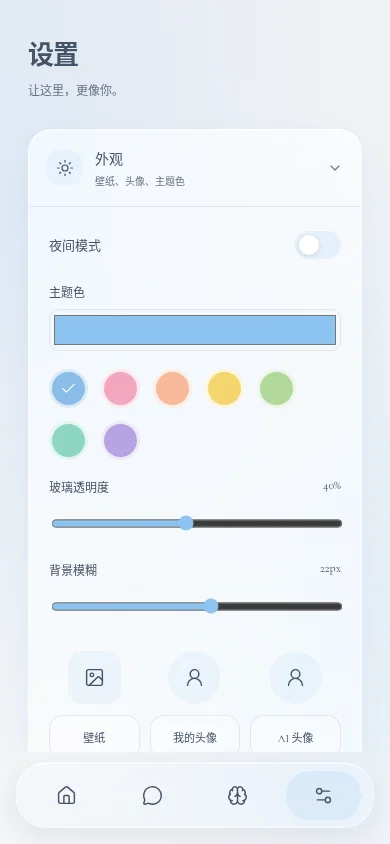
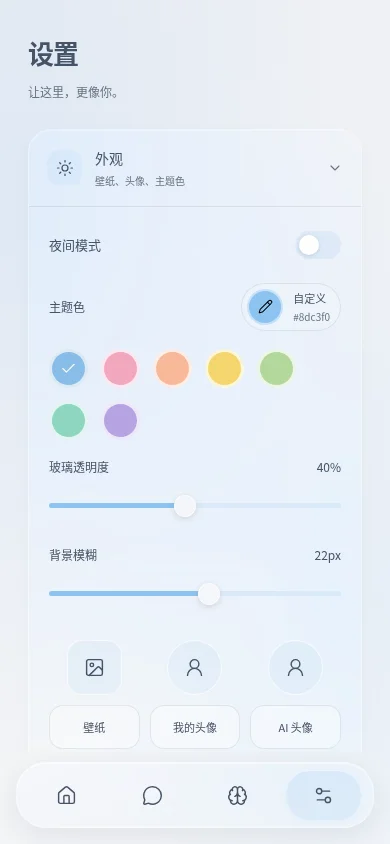
Use exact theme colors and polish glass bubbles and settings controls

diff --git a/src/style.css b/src/style.css
@@ -1,4 +1,4 @@
-:root{--font-en:"Cormorant Garamond",Georgia,serif;--theme-text:color-mix(in srgb,var(--accent) 42%,#202a38);--bubble-bg:rgb(255 255 255 / .2);--bubble-rim:rgb(255 255 255 / .5);--accent:#7a879a;--tint:122 135 154;--ink:color-mix(in srgb,var(--accent) 18%,#353b48);--muted:color-mix(in srgb,var(--accent) 10%,#626a76);--bg:#eceef3;--glass-tint:255 255 255;--glass-alpha:.6;--glass-blur:22px;--line:rgb(255 255 255 / .72);--hairline:rgb(83 94 114 / .12);--glass-shadow:0 8px 24px rgb(64 73 95 / .055),inset 0 1px 0 rgb(255 255 255 / .8),inset 0 -1px 0 rgb(255 255 255 / .23);--solid:#f4f5f8;--wall-image:none;font-family:"Cormorant Garamond",-apple-system,BlinkMacSystemFont,"Segoe UI","PingFang SC","Microsoft YaHei",sans-serif;color:var(--ink);background:var(--bg);font-synthesis:none}
+:root{--font-ui:-apple-system,BlinkMacSystemFont,"Segoe UI","PingFang SC","Microsoft YaHei",sans-serif;--font-en:"Cormorant Garamond",var(--font-ui);--theme-text:var(--accent);--bubble-bg:rgb(255 255 255 / .2);--bubble-rim:rgb(255 255 255 / .5);--accent:#7a879a;--tint:122 135 154;--ink:color-mix(in srgb,var(--accent) 18%,#353b48);--muted:color-mix(in srgb,var(--accent) 10%,#626a76);--bg:#eceef3;--glass-tint:255 255 255;--glass-alpha:.6;--glass-blur:22px;--line:rgb(255 255 255 / .72);--hairline:rgb(83 94 114 / .12);--glass-shadow:0 8px 24px rgb(64 73 95 / .055),inset 0 1px 0 rgb(255 255 255 / .8),inset 0 -1px 0 rgb(255 255 255 / .23);--solid:#f4f5f8;--wall-image:none;font-family:var(--font-ui);color:var(--ink);background:var(--bg);font-synthesis:none}
 :root[data-theme=dark]{--ink:color-mix(in srgb,var(--accent) 12%,#d5d7dd);--muted:color-mix(in srgb,var(--accent) 10%,#979da9);--bg:#0c0d11;--glass-tint:24 26 32;--line:rgb(255 255 255 / .18);--hairline:rgb(220 225 245 / .12);--glass-shadow:0 8px 24px rgb(0 0 0 / .1),inset 0 1px 0 rgb(255 255 255 / .13),inset 0 -1px 0 rgb(255 255 255 / .025);--solid:#181a20;color-scheme:dark}
 *{box-sizing:border-box}html,body{margin:0;height:100%;overflow:hidden}button,input,select,textarea{font:inherit}button{border:0;background:none;color:inherit;cursor:pointer}button:disabled{opacity:.35;cursor:default}svg{width:21px;height:21px;flex-shrink:0}button,input,select,textarea,a{-webkit-tap-highlight-color:transparent}button:focus-visible,input:focus-visible,textarea:focus-visible,select:focus-visible,summary:focus-visible{outline:2px solid var(--accent);outline-offset:3px}h1,h2,p{margin:0}h1{font-size:26px;font-weight:600;letter-spacing:-.04em}h2{font-size:17px;font-weight:550}input,textarea,select{color:var(--ink);accent-color:var(--accent)}button:hover:not(:disabled){filter:brightness(.97)}[hidden]{display:none!important}.sr-only{position:absolute;width:1px;height:1px;overflow:hidden;clip-path:inset(50%);white-space:nowrap}
 #app{height:100%}.shell{position:relative;height:100dvh;max-width:840px;margin:auto;isolation:isolate;overflow:hidden;display:flex;flex-direction:column;background:var(--bg)}.wallpaper{position:absolute;inset:0;z-index:-1;background-image:var(--wall-image),radial-gradient(ellipse at 6% 24%,rgb(var(--tint) / .18),transparent 62%),radial-gradient(ellipse at 100% 70%,rgb(var(--tint) / .14),transparent 58%),linear-gradient(145deg,var(--bg),var(--solid));background-position:center;background-size:cover}.wallpaper:after{content:"";position:absolute;inset:0;background:rgb(var(--glass-tint) / .08)}main{flex:1;min-height:0;min-width:0;overflow:hidden}.glass{background:rgb(var(--glass-tint) / var(--glass-alpha));border:1px solid var(--line);box-shadow:var(--glass-shadow);backdrop-filter:blur(var(--glass-blur)) saturate(135%);-webkit-backdrop-filter:blur(var(--glass-blur)) saturate(135%)}.page-content{height:100%;overflow:auto;padding:calc(30px + env(safe-area-inset-top)) 28px 28px;scrollbar-width:thin}.home-content{max-width:460px;margin:auto}.home-header{display:flex;align-items:center;justify-content:space-between;margin:4px 3px 23px;gap:16px}.home-app-name{font-size:11px;color:var(--muted);letter-spacing:.03em}.home-header h1{font-size:24px;margin-top:8px}.home-header>button,.round{width:44px;height:44px;display:grid;place-items:center;border-radius:50%}.home-header>button{background:rgb(var(--glass-tint) / .35);border:1px solid var(--line);backdrop-filter:blur(var(--glass-blur))}.anniversary{display:block;text-align:center;width:100%;border-radius:30px;padding:23px 22px 21px;position:relative;overflow:hidden}.anniversary-title{font-size:11px;letter-spacing:.12em;color:var(--muted)}.together{display:grid;grid-template-columns:minmax(0,1fr) 1.15fr minmax(0,1fr);align-items:center;gap:12px;margin:15px 0 13px}.partner{display:flex;flex-direction:column;align-items:center;gap:10px;min-width:0}.partner>span:last-child{font-size:11px;max-width:100%;overflow-wrap:anywhere}.avatar{display:grid;place-items:center;flex-shrink:0;width:58px;height:58px;border-radius:50%;background:rgb(var(--tint) / .11);color:var(--ink);border:2px solid rgb(var(--glass-tint) / .8);box-shadow:0 4px 10px rgb(var(--tint) / .1);overflow:hidden}.avatar img{width:100%;height:100%;object-fit:cover}.avatar>span{font-family:inherit;font-size:23px;font-weight:400;opacity:.75}.day-count strong{display:block;font-size:61px;line-height:1.15;font-weight:250;font-variant-numeric:tabular-nums;letter-spacing:-.06em;color:var(--ink)}.day-count>span{font-size:10px;color:var(--muted);display:block;margin-top:3px}.since{font-size:10px;color:var(--muted);display:flex;align-items:center;justify-content:center;gap:7px;letter-spacing:.08em}.since svg{width:12px;height:12px}.anniversary>p{font-size:11px;line-height:1.7;color:var(--muted);margin-top:13px;overflow-wrap:anywhere}.widget-grid{display:grid;grid-template-columns:repeat(2,minmax(0,1fr));gap:14px;margin-top:16px}.widget{border-radius:26px;min-width:0;min-height:150px;padding:19px;display:flex;flex-direction:column;text-align:left}.widget-label{display:flex;align-items:center;gap:7px;font-size:11px;color:var(--muted)}.widget-label svg{width:15px;height:15px}.widget p{font-size:13px;line-height:1.7;overflow-wrap:anywhere;margin-top:16px;white-space:pre-wrap}.date-widget strong{font-size:37px;font-weight:300;line-height:1;margin-top:16px;letter-spacing:-.03em}.date-widget strong small{font-size:10px;font-weight:400;margin-left:5px;color:var(--muted)}.date-widget p{font-size:10px;color:var(--muted);margin-top:13px}.widget-foot{display:flex;align-items:center;gap:6px;font-size:9px;color:var(--muted);margin-top:auto;padding-top:15px}.widget-foot svg{width:12px;height:12px}.moods{display:flex;justify-content:space-between;gap:2px;margin-top:15px}.moods button{display:flex;flex-direction:column;align-items:center;justify-content:center;gap:5px;min-width:27px;min-height:44px;border-radius:10px;padding:3px}.moods button>span{font-size:19px;line-height:1}.moods small{font-size:8px;white-space:nowrap}.moods .selected{background:rgb(var(--tint) / .19)}.mood-widget p{font-size:10px;color:var(--muted);margin-top:11px}.home-local{text-align:center;font-size:10px;color:var(--muted);margin:26px 0 6px}.add-widget{display:flex;align-items:center;justify-content:center;gap:8px;width:100%;border-radius:24px;padding:25px;margin-top:16px;font-size:13px}.nav-dock{flex-shrink:0;padding:10px 20px calc(16px + env(safe-area-inset-bottom));background:linear-gradient(0deg,rgb(var(--glass-tint) / .12),transparent)}.bottom-nav{display:grid;grid-template-columns:repeat(4,minmax(0,1fr));gap:3px;max-width:370px;margin:auto;padding:7px;border-radius:30px;--glass-alpha:.65}.bottom-nav button{min-height:52px;display:flex;flex-direction:column;align-items:center;justify-content:center;gap:5px;font-size:10px;color:var(--muted);border-radius:23px;transition:background .15s,color .15s}.bottom-nav button.active{background:rgb(var(--tint) / .2);color:var(--ink);box-shadow:inset 0 1px 1px rgb(var(--glass-tint) / .5)}.bottom-nav svg{width:21px;height:21px}.page-heading{margin:4px 0 26px}.page-heading p{font-size:12px;color:var(--muted);line-height:1.8;margin-top:10px}.page-content:not(.home-page){max-width:660px;margin:auto}.settings-list{display:grid;gap:12px}.settings-section{border-radius:23px;overflow:hidden}.settings-section>summary{display:flex;align-items:center;gap:13px;padding:18px;cursor:pointer;list-style:none;min-height:72px}.settings-section>summary::-webkit-details-marker{display:none}.settings-symbol{height:35px;width:35px;border-radius:12px;background:rgb(var(--tint) / .11);display:grid;place-items:center;flex-shrink:0}.settings-symbol svg{width:18px;height:18px}.settings-section>summary>span:nth-child(2){flex:1;min-width:0;display:flex;flex-direction:column;gap:5px}.settings-section strong{font-size:14px;font-weight:500}.settings-section summary small{font-size:10px;color:var(--muted)}.settings-section summary>svg{height:16px;width:16px;color:var(--muted);transition:transform .15s}.settings-section[open] summary>svg{transform:rotate(90deg)}.settings-body{padding:0 20px 20px;border-top:1px solid var(--hairline)}.field{display:flex;flex-direction:column;gap:9px;font-size:12px;margin:18px 0}.field>span{display:flex;justify-content:space-between;gap:12px}.field input:not([type=range]):not([type=color]),.field textarea,.field select,.search-field input{width:100%;min-height:44px;border:1px solid var(--hairline);background:rgb(var(--glass-tint) / .37);border-radius:12px;padding:11px 13px;font-size:16px;line-height:1.5}.field textarea{resize:vertical}.field input:disabled{opacity:.55}.field input[type=range]{width:100%;min-height:35px}.field input[type=color]{width:100%;height:42px;cursor:pointer;border:1px solid var(--hairline);border-radius:10px;background:transparent}.field input::placeholder,.field textarea::placeholder{color:var(--muted)}.hint{font-size:11px;line-height:1.8;color:var(--muted);margin:16px 0}.primary,.secondary,.upload-label{display:inline-flex;align-items:center;justify-content:center;gap:8px;min-height:44px;padding:11px 17px;font-size:12px;border-radius:14px;background:rgb(var(--tint) / .22);color:var(--ink);border:1px solid var(--hairline)}.primary{background:var(--ink);color:var(--solid)}.primary svg,.secondary svg,.upload-label svg{width:16px;height:16px}.setting-row{display:flex;align-items:center;justify-content:space-between;font-size:13px;margin:24px 0;gap:12px}.toggle{width:46px;height:28px;border-radius:20px;background:rgb(var(--tint) / .17);padding:4px}.toggle>span{display:block;width:20px;height:20px;border-radius:50%;background:#fff;box-shadow:0 1px 5px #0002;transition:transform .15s}.toggle.on{background:var(--accent)}.toggle.on>span{transform:translateX(18px)}.color-presets{display:flex;gap:13px;margin:15px 0}.color-presets button{width:39px;height:39px;border-radius:50%;background:var(--swatch);border:3px solid rgb(var(--glass-tint) / .75);color:#fff;display:grid;place-items:center}.color-presets svg{width:17px;height:17px}.image-options{display:grid;grid-template-columns:repeat(3,minmax(0,1fr));gap:10px;margin-top:24px}.image-option{display:flex;flex-direction:column;align-items:center;gap:10px;min-width:0}.image-preview{height:55px;width:55px;border-radius:50%;background:rgb(var(--tint) / .1);overflow:hidden;display:grid;place-items:center;border:1px solid var(--line)}.image-preview.wallpaper-preview{border-radius:15px}.image-preview img{height:100%;width:100%;object-fit:cover}.image-option .upload-label{padding:9px;font-size:11px;cursor:pointer;background:rgb(var(--glass-tint) / .35);width:100%;position:relative}.upload-label input{position:absolute;opacity:0;width:100%;height:100%;inset:0;cursor:pointer}.upload-label:focus-within{outline:2px solid var(--accent);outline-offset:3px}.text-button{min-height:36px;font-size:10px;color:var(--muted)}.import-label{position:relative;margin-top:12px;margin-left:8px;cursor:pointer}.widget-editor{margin-top:12px}.widget-editor-row{display:flex;align-items:center;justify-content:space-between;border-bottom:1px solid var(--hairline);gap:10px;padding:9px 0}.widget-editor-row label{display:flex;align-items:center;gap:12px;font-size:13px;min-height:44px}.widget-editor-row input{width:17px;height:17px}.widget-editor-row>div{display:flex}.widget-editor-row button{height:44px;width:38px;display:grid;place-items:center}.widget-editor-row svg{width:17px;height:17px}.storage-status{margin:22px 0;font-size:12px;display:flex;flex-direction:column;gap:8px}.storage-status>span{color:var(--muted);font-size:11px}.storage-status p{color:var(--muted);font-size:10px}.usage-values{display:flex;justify-content:space-around;margin:26px 0}.usage-values div{display:flex;flex-direction:column;gap:9px;text-align:center}.usage-values strong{font-size:27px;font-weight:300}.usage-values span{font-size:10px;color:var(--muted)}.info-banner{padding:13px;border-radius:12px;border:1px solid var(--hairline);font-size:11px;line-height:1.7;color:var(--muted);margin-top:17px}.settings-version{text-align:center;font-size:10px;color:var(--muted);margin-top:24px}.memory-toolbar{display:flex;align-items:center;justify-content:space-between;gap:10px;margin:0 0 18px}.filter-tabs{display:flex;gap:4px;background:rgb(var(--glass-tint) / .3);padding:4px;border-radius:16px}.filter-tabs button{min-height:36px;padding:8px 12px;border-radius:12px;font-size:11px;color:var(--muted)}.filter-tabs button.active{background:rgb(var(--tint) / .2);color:var(--ink)}.search-field{display:block}.search-field input{background:rgb(var(--glass-tint) / .5)}.memory-info{font-size:10px}.memory-list{display:grid;gap:14px}.memory-card{padding:18px 20px;border-radius:24px}.memory-card-top{display:flex;justify-content:space-between;align-items:center;gap:10px;margin-bottom:12px}.memory-card-top>div{display:flex}.memory-card-top button{width:36px;height:36px;display:grid;place-items:center;color:var(--muted)}.memory-card-top svg{width:15px;height:15px}.memory-kind{font-size:10px;color:var(--muted);display:flex;align-items:center;gap:6px}.memory-card h2{font-size:16px;overflow-wrap:anywhere}.memory-card>p{font-size:13px;line-height:1.8;white-space:pre-wrap;overflow-wrap:anywhere;margin-top:12px}.memory-card>small{display:block;color:var(--muted);font-size:9px;margin-top:18px}.empty-card{text-align:center;padding:50px 15px;color:var(--muted)}.empty-card>svg{width:32px;height:32px;margin-bottom:18px}.empty-card h2{font-size:17px;color:var(--ink);margin-bottom:12px}.empty-card p{font-size:12px;line-height:1.8}.plugin-card{padding:18px;border:1px solid var(--hairline);border-radius:17px;margin-top:17px}.plugin-top{display:flex;align-items:center;gap:10px}.plugin-symbol{height:36px;width:36px;display:grid;place-items:center;background:rgb(var(--tint) / .13);border-radius:12px}.plugin-top>div:nth-child(2){flex:1;min-width:0}.plugin-top h2{font-size:14px;overflow-wrap:anywhere}.plugin-top p{font-size:10px;color:var(--muted);margin-top:5px}.plugin-top button{width:40px;height:40px}.endpoint{font-size:11px;overflow-wrap:anywhere;color:var(--muted);margin:15px 0}.plugin-bottom{display:flex;align-items:center;justify-content:space-between;border-top:1px solid var(--hairline);padding-top:10px;font-size:10px;color:var(--muted)}.plugin-bottom button{padding:10px;font-size:12px}.section-title{display:flex;align-items:center;justify-content:space-between;gap:10px;margin:25px 0 10px}.section-title span{font-size:9px;color:var(--muted)}.session-header{display:flex;justify-content:flex-start;margin:-7px 0 15px}.session-header button{height:44px;width:44px;border-radius:50%;display:grid;place-items:center;background:rgb(var(--glass-tint) / .5);border:1px solid var(--line)}.session-list{margin-top:22px}.session-card{display:flex;align-items:center;gap:7px;padding:16px 8px;border-bottom:1px solid var(--hairline)}.session-open{display:flex;align-items:center;gap:12px;flex:1;min-width:0;text-align:left}.session-open>span:last-child{display:grid;gap:8px;min-width:0}.session-symbol{height:44px;width:44px;border-radius:14px;background:rgb(var(--tint) / .13);display:grid;place-items:center;flex-shrink:0}.session-open strong{font-size:13px;font-weight:500;overflow-wrap:anywhere}.session-open small{font-size:11px;color:var(--muted);overflow:hidden;white-space:nowrap;text-overflow:ellipsis}.session-open em{font-size:9px;color:var(--muted);font-style:normal}.session-card>button:last-child{height:44px;width:44px;flex-shrink:0}.session-card.selected{background:rgb(var(--glass-tint) / .3);border-radius:16px}.chat-view{height:100%;display:flex;flex-direction:column}.chat-header{display:flex;align-items:center;justify-content:space-between;padding:calc(16px + env(safe-area-inset-top)) 23px 16px;border-bottom:1px solid var(--hairline);background:rgb(var(--glass-tint) / .16);backdrop-filter:blur(var(--glass-blur))}.chat-header>button{height:44px;width:44px;border-radius:50%;border:1px solid var(--line);background:rgb(var(--glass-tint) / .3);display:grid;place-items:center}.peer{display:grid;justify-items:center;text-align:center}.peer-avatar{width:38px;height:38px}.peer-avatar>span{font-size:18px}.peer h1{font-size:19px;font-weight:500;margin:7px 0}.status{display:flex;align-items:center;justify-content:center;gap:5px;font-size:9px;color:var(--muted)}.status i{width:4px;height:4px;background:var(--accent);border-radius:50%}.messages{flex:1;min-height:0;overflow:auto;padding:22px 26px}.date-line{text-align:center;font-size:10px;color:var(--muted)}.welcome{height:100%;min-height:260px;display:flex;flex-direction:column;align-items:center;justify-content:center;text-align:center;padding:25px 0}.sea-mark{width:55px;height:50px;position:relative;margin-bottom:22px}.sea-mark:before{content:"";display:block;width:22px;height:22px;border-radius:50%;background:var(--accent);opacity:.35;margin:auto}.sea-mark span{position:absolute;bottom:10px;left:3px;width:50px;height:10px;border-top:1px solid var(--accent);border-radius:50%;opacity:.4}.sea-mark span:nth-child(2){bottom:4px;left:0}.sea-mark span:nth-child(3){bottom:-2px;left:7px;width:40px}.welcome-en{font-family:var(--font-en);font-size:23px;font-style:italic;color:var(--muted);margin-bottom:20px}.welcome h2{font-size:19px;font-weight:450;margin-bottom:13px}.welcome>p:not(.welcome-en){font-size:11px;color:var(--muted)}.preview-note{font-size:10px;line-height:1.8;color:var(--muted);margin-top:30px}.message{display:flex;flex-direction:column;align-items:flex-start;margin:20px 0}.message.user{align-items:flex-end}.bubble{white-space:pre-wrap;overflow-wrap:anywhere;max-width:85%;padding:12px 16px;border-radius:18px 18px 18px 4px;font-size:14px;line-height:1.8;background:rgb(var(--glass-tint) / .58);border:1px solid var(--line);backdrop-filter:blur(var(--glass-blur))}.user .bubble{background:rgb(var(--tint) / .18);border-radius:18px 18px 4px 18px}.message-meta{display:flex;align-items:center;gap:6px;font-size:9px;color:var(--muted);margin-top:4px}.message-meta button{height:28px;width:28px;display:grid;place-items:center}.message-meta svg{width:12px;height:12px}.composer-wrap{padding:9px 22px 5px}.composer-caption{display:flex;align-items:center;justify-content:space-between;font-size:9px;color:var(--muted);margin:0 7px 10px;gap:10px}.composer-caption>span{white-space:nowrap;overflow:hidden;text-overflow:ellipsis;max-width:55%}.composer-caption button{font-size:10px;display:flex;align-items:center;gap:6px}.composer-caption svg{width:13px;height:13px;transform:rotate(90deg)}.composer{display:flex;align-items:center;gap:10px;padding:10px 12px 10px 17px;border-radius:22px;background:rgb(var(--glass-tint) / .65);border:1px solid var(--line);box-shadow:var(--glass-shadow);backdrop-filter:blur(var(--glass-blur))}.composer textarea{flex:1;min-width:0;font-size:16px;padding:5px 0;background:none;border:0;line-height:1.6;resize:vertical;max-height:140px}.composer textarea::placeholder{color:var(--muted)}.send{width:38px;height:38px;border-radius:50%;display:grid;place-items:center;background:var(--ink);color:var(--solid);flex-shrink:0}.send svg{width:19px;height:19px}.composer-note{font-size:8px;text-align:center;color:var(--muted);margin-top:9px}#memory-dialog{width:calc(100% - 32px);max-width:430px;max-height:calc(100dvh - 48px);border-radius:28px;padding:24px;color:var(--ink);overflow:auto;background:rgb(var(--glass-tint) / .94)}#memory-dialog::backdrop{background:rgb(20 25 36 / .3);backdrop-filter:blur(5px)}.dialog-heading{display:flex;align-items:center;justify-content:space-between;gap:12px}.dialog-heading h2{font-size:19px}.dialog-heading button{width:40px;height:40px;display:grid;place-items:center}#notice{position:fixed;left:50%;bottom:calc(105px + env(safe-area-inset-bottom));transform:translate(-50%,10px);background:var(--ink);color:var(--solid);opacity:0;pointer-events:none;max-width:calc(100vw - 32px);width:max-content;border-radius:16px;padding:13px 18px;font-size:11px;line-height:1.7;z-index:100;transition:opacity .15s,transform .15s}#notice.visible{opacity:1;transform:translate(-50%,0)}
@@ -127,12 +127,13 @@ dialog[open]::backdrop{animation:backdrop-arrive 180ms ease-out}
 .anniversary-horizontal .since{font-size:14px;line-height:1.4;margin-bottom:12px;letter-spacing:0;font-variant-numeric:tabular-nums}
 .anniversary-companions{min-width:0;display:grid;grid-template-columns:repeat(2,minmax(0,1fr));gap:12px}
 .anniversary-person{min-width:0;display:flex;flex-direction:column;align-items:center;gap:14px}
-.anniversary-pill{position:relative;display:flex;align-items:center;justify-content:center;width:100%;min-height:36px;max-height:56px;padding:7px 5px;border-radius:18px;background:var(--bubble-bg);border:1px solid var(--bubble-rim);box-shadow:inset 0 1px 0 rgb(255 255 255 / .25),0 4px 14px rgb(0 0 0 / .025);backdrop-filter:blur(16px);-webkit-backdrop-filter:blur(16px);font-size:11px;line-height:1.4;overflow-wrap:anywhere;white-space:pre-wrap;color:var(--ink);text-align:center}
+.anniversary-pill{position:relative;isolation:isolate;display:flex;align-items:center;justify-content:center;width:100%;min-height:36px;max-height:56px;padding:7px 5px;border:0;border-radius:18px;background:none;backdrop-filter:blur(16px);-webkit-backdrop-filter:blur(16px);font-size:11px;line-height:1.4;overflow-wrap:anywhere;white-space:pre-wrap;color:var(--accent);text-align:center}
+.anniversary-bubble-glass{position:absolute;top:0;left:0;width:100%;height:calc(100% + 8px);z-index:-1;pointer-events:none;overflow:visible;filter:drop-shadow(0 3px 5px rgb(0 0 0 / .035))}
+.anniversary-bubble-glass path{fill:var(--bubble-bg);stroke:var(--bubble-rim);stroke-width:1;vector-effect:non-scaling-stroke}
 .anniversary-bubble-text{display:-webkit-box;-webkit-line-clamp:2;-webkit-box-orient:vertical;overflow:hidden}
-.anniversary-pill:after{content:'';position:absolute;bottom:-6px;left:calc(50% - 7px);width:14px;height:10px;clip-path:polygon(0 0,100% 0,50% 100%);background:inherit}
 .anniversary-avatar{display:block;position:relative}
 .anniversary-avatar .avatar{width:clamp(54px,16vw,64px);height:clamp(54px,16vw,64px);border:2px solid var(--solid);box-shadow:none;background:color-mix(in srgb,var(--accent) 40%,var(--solid));color:var(--ink)}
-.anniversary-avatar.ai .avatar{background:var(--accent);color:var(--accent-ink,var(--ink))}
+.anniversary-avatar.ai .avatar{background:color-mix(in srgb,var(--accent) 22%,var(--solid));color:var(--accent)}
 .anniversary-avatar .avatar>span{font-size:22px;opacity:1}
 .color-presets{flex-wrap:wrap}
 
@@ -184,7 +185,7 @@ dialog[open]::backdrop{animation:backdrop-arrive 180ms ease-out}
 @media(max-height:720px){.date-widget{gap:4px!important}.calendar-grid{gap:1px}.calendar-weekday{padding-bottom:0}.calendar-head time{font-size:30px}.home-editing .anniversary-horizontal .since{margin-bottom:8px}.home-editing .anniversary-horizontal .day-count>span{font-size:17px}}
 
 /* System-wide dark appearance: subdued wallpaper, charcoal surfaces and soft whites. */
-:root[data-theme=dark]{--theme-text:color-mix(in srgb,var(--accent) 85%,#d3d6dd);--bubble-bg:rgb(42 44 51 / .4);--bubble-rim:rgb(255 255 255 / .1)}
+:root[data-theme=dark]{--theme-text:var(--accent);--bubble-bg:rgb(42 44 51 / .4);--bubble-rim:rgb(255 255 255 / .1)}
 :root[data-theme=dark] .wallpaper{filter:brightness(.56) saturate(.75)}
 :root[data-theme=dark] .wallpaper:after{background:rgb(0 0 0 / .24)}
 :root[data-theme=dark] .glass{border-color:rgb(255 255 255 / .09)}
@@ -209,3 +210,28 @@ dialog[open]::backdrop{animation:backdrop-arrive 180ms ease-out}
 .home-desktop .date-widget{padding:14px;gap:4px}
 .calendar-head,.calendar-grid{flex-shrink:0}
 @media(max-width:380px){.home-desktop .date-widget{padding:11px}.calendar-grid{line-height:1.35}}
+
+/* Serif is reserved for large display text; compact UI uses clear lining figures. */
+h1,.welcome-en,.usage-values strong,.anniversary-horizontal .day-count>span{font-family:var(--font-en)}
+.field output,.widget-foot,.calendar-grid,.calendar-tag{font-family:var(--font-ui);font-variant-numeric:lining-nums tabular-nums}
+.calendar-grid,.calendar-tag{color:var(--accent)}
+.calendar-weekday{color:var(--accent);opacity:1;font-weight:500}
+@media(max-height:720px){.home-editing .anniversary-horizontal .day-count>span{font-family:var(--font-ui)}}
+
+/* Settings glass shows the wallpaper through both light and dark surfaces. */
+.settings-section.glass{background:rgb(var(--glass-tint) / calc(var(--glass-alpha) * .28));border-color:rgb(255 255 255 / .3);box-shadow:inset 0 1px 0 rgb(255 255 255 / .24),0 5px 20px rgb(0 0 0 / .025)}
+:root[data-theme=dark] .settings-section.glass{border-color:rgb(255 255 255 / .1);box-shadow:inset 0 1px 0 rgb(255 255 255 / .055),0 5px 20px rgb(0 0 0 / .06)}
+.color-picker-row{display:flex;align-items:center;justify-content:space-between;gap:12px;margin:18px 0;font-size:12px}
+.custom-color-picker{position:relative;display:flex;align-items:center;gap:10px;min-height:48px;padding:5px 10px 5px 5px;border:1px solid var(--hairline);border-radius:28px;cursor:pointer;background:rgb(var(--glass-tint) / .14)}
+.custom-color-picker input[type=color]{position:absolute;inset:0;width:100%;height:100%;opacity:0;cursor:pointer}
+.custom-color-picker:focus-within{outline:2px solid var(--accent);outline-offset:3px}
+.custom-color-swatch{display:grid;place-items:center;width:36px;height:36px;border-radius:50%;background:var(--swatch);border:2px solid rgb(255 255 255 / .5);color:var(--accent-ink)}
+.custom-color-swatch svg{width:15px;height:15px}
+.custom-color-caption{display:flex;flex-direction:column;gap:3px;font-size:11px}
+.custom-color-caption small{font-size:10px;color:var(--muted);font-variant-numeric:lining-nums tabular-nums}
+.field input[type=range]{appearance:none;-webkit-appearance:none;min-height:44px;width:100%;margin:0;padding:0;background:transparent;cursor:pointer}
+.field input[type=range]::-webkit-slider-runnable-track{height:5px;border-radius:8px;background:linear-gradient(to right,var(--accent) 0 var(--range-fill),rgb(var(--tint) / .18) var(--range-fill) 100%)}
+.field input[type=range]::-webkit-slider-thumb{appearance:none;-webkit-appearance:none;width:22px;height:22px;margin-top:-8.5px;border-radius:50%;border:1px solid rgb(255 255 255 / .65);background:var(--solid);box-shadow:0 2px 7px rgb(0 0 0 / .12)}
+.field input[type=range]::-moz-range-track{height:5px;border-radius:8px;background:rgb(var(--tint) / .18)}
+.field input[type=range]::-moz-range-progress{height:5px;border-radius:8px;background:var(--accent)}
+.field input[type=range]::-moz-range-thumb{width:22px;height:22px;border-radius:50%;border:1px solid rgb(255 255 255 / .65);background:var(--solid);box-shadow:0 2px 7px rgb(0 0 0 / .12)}

diff --git a/src/views.js b/src/views.js
@@ -42,7 +42,7 @@ export function home(state,ui={}) {
  };
  const wrap=(type,content,slot)=>`<div class="home-widget ${type==='anniversary'?'hero-widget':''}" data-home-widget="${type}" style="grid-column:${slot.col} / span ${slot.width};grid-row:${slot.row} / span ${slot.height}" tabindex="0" aria-label="${type==='anniversary'?'纪念日':label(type)}，${editing?'拖拽移动，Alt 加方向键调整位置':'长按或右键打开菜单'}"><div class="widget-surface" ${editing?'inert':''}>${content}</div>${editing?`<div class="widget-drag-surface" aria-hidden="true"></div><button class="widget-remove" data-home-action="hide" data-type="${type}" aria-label="移除${type==='anniversary'?'纪念日':label(type)}">${icon('close')}</button>`:''}</div>`;
  const count=days>0?days:1-(days||0);
- const hero=`<section class="anniversary anniversary-horizontal"><div class="anniversary-row"><div class="anniversary-days"><span class="since">${escape(h.since.replaceAll('-','.'))} ${days>0?'起':'开始'}</span><div class="day-count ${String(count).length===3?'medium-count':''} ${String(count).length>3?'long-count':''} ${String(count).length>4?'extra-long-count':''}"><strong data-home-days>${count}</strong><span data-home-days-unit>days</span></div></div><div class="anniversary-companions">${[['user',h.userName,h.userBubble||'喵……'],['ai',state.persona.name,h.aiBubble||'我在。']].map(([who,name,bubble])=>`<div class="anniversary-person"><span class="anniversary-pill" title="${escape(name)}：${escape(bubble)}"><span class="sr-only">${escape(name)}：</span><span class="anniversary-bubble-text">${escape(bubble)}</span></span><span class="anniversary-avatar ${who}" title="${escape(name)}" aria-label="${escape(name)}">${avatar(state,who)}</span></div>`).join('')}</div></div></section>`;
+ const hero=`<section class="anniversary anniversary-horizontal"><div class="anniversary-row"><div class="anniversary-days"><span class="since">${escape(h.since.replaceAll('-','.'))} ${days>0?'起':'开始'}</span><div class="day-count ${String(count).length===3?'medium-count':''} ${String(count).length>3?'long-count':''} ${String(count).length>4?'extra-long-count':''}"><strong data-home-days>${count}</strong><span data-home-days-unit>days</span></div></div><div class="anniversary-companions">${[['user',h.userName,h.userBubble||'喵……'],['ai',state.persona.name,h.aiBubble||'我在。']].map(([who,name,bubble])=>`<div class="anniversary-person"><span class="anniversary-pill" title="${escape(name)}：${escape(bubble)}"><svg class="anniversary-bubble-glass" viewBox="0 0 100 48" preserveAspectRatio="none" aria-hidden="true"><path d="M20 1H80Q99 1 99 20Q99 39 80 39H60C56 39 54 43 51 46Q50 47 49 46C47 43 45 39 41 39H20Q1 39 1 20Q1 1 20 1Z"/></svg><span class="sr-only">${escape(name)}：</span><span class="anniversary-bubble-text">${escape(bubble)}</span></span><span class="anniversary-avatar ${who}" title="${escape(name)}" aria-label="${escape(name)}">${avatar(state,who)}</span></div>`).join('')}</div></div></section>`;
  const pages=ui.dragPages||h.pages||[['anniversary',...h.widgets.map(w=>w.type)]],current=Math.min(ui.page||0,pages.length-1);
  const visible=pages[current].filter(type=>type==='anniversary'?h.anniversaryVisible!==false:h.widgets.some(w=>w.type===type&&w.enabled));
  return `<div class="home-content home-desktop ${editing?'home-editing':''}">${editing?`<div class="home-edit-toolbar"><button class="glass" data-home-action="add" aria-label="添加小组件">${icon('plus')}组件</button><button class="glass" data-home-action="add-page" ${pages.length>=12?'disabled':''}>${icon('layout')}新增页</button><button class="glass" data-home-action="done">完成</button></div><p class="home-edit-help">拖拽调整位置 · 拖到边缘停留可翻页</p>`:''}<section class="home-desktop-page" aria-label="第 ${current+1} 页" data-home-page="${current}"><div class="widget-grid">${homeGridSlots(visible).map(slot=>wrap(slot.type,slot.type==='anniversary'?hero:widgets[slot.type],slot)).join('')}</div>${visible.length?'':`<div class="home-page-empty"><span>${icon('layout')}</span><p>${editing?'从其他页拖入组件，或添加小组件':'这一页，留给新的日常。'}</p>${editing?'<button class="glass" data-home-action="add">添加小组件</button>':''}</div>`}</section><div class="home-page-controls"><nav class="home-page-dots" aria-label="主页分页">${pages.map((_,i)=>`<button data-home-action="page" data-page="${i}" aria-label="第 ${i+1} 页" ${i===current?'aria-current="page"':''}><span></span></button>`).join('')}</nav></div></div>`;
@@ -57,7 +57,7 @@ export function memoryEditor(memory,source='') {
 function detail(id,title,symbol,body,summary='') {return `<details id="${id}" class="settings-section glass"><summary><span class="settings-symbol">${icon(symbol)}</span><span><strong>${title}</strong>${summary?`<small>${summary}</small>`:''}</span>${icon('chevron')}</summary><div class="settings-body">${body}</div></details>`;}
 export function settings(state) {
  const a=state.appearance,h=state.home, total=state.sessions.reduce((n,s)=>n+s.messages.length,0);
- const appearance=`<div class="setting-row"><span>夜间模式</span><button class="toggle ${state.theme==='dark'?'on':''}" data-action="theme" role="switch" aria-checked="${state.theme==='dark'}" aria-label="夜间模式"><span></span></button></div><label class="field color-field"><span>主题色</span><input type="color" name="accent" value="${a.accent}" aria-label="主题色"></label><div class="color-presets">${THEME_PRESETS.map(([name,c])=>`<button data-action="accent" data-color="${c}" style="--swatch:${c}" aria-label="${name} ${c}" title="${name}" aria-pressed="${a.accent===c}">${a.accent===c?icon('check'):''}</button>`).join('')}</div><label class="field"><span>玻璃透明度 <output id="opacity-output">${100-a.opacity}%</output></span><input type="range" name="opacity" min="30" max="95" value="${a.opacity}"></label><label class="field"><span>背景模糊 <output id="blur-output">${a.blur}px</output></span><input type="range" name="blur" min="0" max="40" value="${a.blur}"></label><div class="image-options">${[['wallpaper','壁纸','image'],['userAvatar','我的头像','person'],['aiAvatar','AI 头像','person']].map(([key,label,symbol])=>`<div class="image-option"><div class="image-preview ${key==='wallpaper'?'wallpaper-preview':''}">${a[key]?`<img src="${escape(a[key])}" alt="${label}">`:icon(symbol)}</div><label class="upload-label">${label}<input type="file" data-image="${key}" accept="image/png,image/jpeg,image/webp"></label><button data-action="clear-image" data-key="${key}" class="text-button" ${a[key]?'':'disabled'}>恢复默认</button></div>`).join('')}</div><p class="hint">图片保存在本机，会压缩后保存；推荐使用 JPG、PNG 或 WebP。</p>`;
+ const appearance=`<div class="setting-row"><span>夜间模式</span><button class="toggle ${state.theme==='dark'?'on':''}" data-action="theme" role="switch" aria-checked="${state.theme==='dark'}" aria-label="夜间模式"><span></span></button></div><div class="color-picker-row"><span>主题色</span><label class="custom-color-picker" style="--swatch:${a.accent}"><input type="color" name="accent" value="${a.accent}" aria-label="自定义主题色"><span class="custom-color-swatch" aria-hidden="true">${icon('edit')}</span><span class="custom-color-caption">自定义<small data-custom-color-value>${a.accent}</small></span></label></div><div class="color-presets">${THEME_PRESETS.map(([name,c])=>`<button data-action="accent" data-color="${c}" style="--swatch:${c}" aria-label="${name} ${c}" title="${name}" aria-pressed="${a.accent===c}">${a.accent===c?icon('check'):''}</button>`).join('')}</div><label class="field"><span>玻璃透明度 <output id="opacity-output">${100-a.opacity}%</output></span><input type="range" name="opacity" min="30" max="95" value="${a.opacity}" style="--range-fill:${(a.opacity-30)/65*100}%"></label><label class="field"><span>背景模糊 <output id="blur-output">${a.blur}px</output></span><input type="range" name="blur" min="0" max="40" value="${a.blur}" style="--range-fill:${a.blur/40*100}%"></label><div class="image-options">${[['wallpaper','壁纸','image'],['userAvatar','我的头像','person'],['aiAvatar','AI 头像','person']].map(([key,label,symbol])=>`<div class="image-option"><div class="image-preview ${key==='wallpaper'?'wallpaper-preview':''}">${a[key]?`<img src="${escape(a[key])}" alt="${label}">`:icon(symbol)}</div><label class="upload-label">${label}<input type="file" data-image="${key}" accept="image/png,image/jpeg,image/webp"></label><button data-action="clear-image" data-key="${key}" class="text-button" ${a[key]?'':'disabled'}>恢复默认</button></div>`).join('')}</div><p class="hint">图片保存在本机，会压缩后保存；推荐使用 JPG、PNG 或 WebP。</p>`;
  const persona=`<form id="persona-form">${field('AI 名字','name',state.persona.name,'尘')}<label class="field"><span>角色设定</span><textarea name="prompt" rows="4" maxlength="12000" placeholder="希望的语气、性格与相处方式…">${escape(state.persona.prompt)}</textarea></label><button class="primary" type="submit">保存角色</button></form>`;
  const provider=`<form id="provider-form"><label class="field"><span>接口类型</span><select name="protocol">${[['openai','OpenAI 兼容'],['anthropic','Anthropic'],['gemini','Google Gemini']].map(([v,l])=>`<option value="${v}" ${state.provider.protocol===v?'selected':''}>${l}</option>`).join('')}</select></label>${field('API 基础地址','baseUrl',state.provider.baseUrl,'https://api.example.com/v1','url')}${field('模型 ID','model',state.provider.model,'填写服务商提供的模型 ID')}<label class="field"><span>API 密钥</span><input type="password" placeholder="接入模型时开放" disabled></label><p class="hint">当前只保存配置，模型尚未连接。</p><button class="primary" type="submit">保存模型配置</button></form>`;
  const storage=`<div class="storage-status"><span>当前储存</span><strong>本机浏览器</strong><p>约 ${(new Blob([JSON.stringify(state)]).size/1024).toFixed(1)} KB · 尚未开启云同步</p></div><button class="secondary" data-action="export">${icon('download')}导出完整备份</button><label class="upload-label import-label">${icon('upload')}导入备份<input type="file" id="import-data" accept="application/json,.json"></label><p class="hint">包含会话、记忆、外观、头像和配置。导入会替换当前数据，请先导出；清除浏览器数据会丢失本机记录。</p>`;

diff --git a/src/app.js b/src/app.js
@@ -102,7 +102,7 @@ app.addEventListener('input',e=>{
  if(t.name==='message'){composeDraft=t.value;selection={start:t.selectionStart,end:t.selectionEnd};resizeComposer();}
  if(t.id==='session-search'){const pos=t.selectionStart;sessionSearch=t.value;render();const n=app.querySelector('#session-search');n.focus();try{n.setSelectionRange(pos,pos);}catch{}}
  if(t.id==='memory-search'){const pos=t.selectionStart;memorySearch=t.value;render();const n=app.querySelector('#memory-search');n.focus();try{n.setSelectionRange(pos,pos);}catch{}}
- if(['accent','blur','opacity'].includes(t.name)&&t.closest('#appearance-settings')){state.appearance[t.name]=t.name==='accent'?t.value:Number(t.value);applyAppearance();const output=document.querySelector(`#${t.name}-output`);if(output)output.textContent=t.name==='opacity'?`${100-state.appearance.opacity}%`:`${state.appearance.blur}px`;}
+ if(['accent','blur','opacity'].includes(t.name)&&t.closest('#appearance-settings')){state.appearance[t.name]=t.name==='accent'?t.value:Number(t.value);applyAppearance();if(t.type==='range')t.style.setProperty('--range-fill',`${(Number(t.value)-Number(t.min))/(Number(t.max)-Number(t.min))*100}%`);if(t.name==='accent'){app.querySelector('.custom-color-picker')?.style.setProperty('--swatch',t.value);const value=app.querySelector('[data-custom-color-value]');if(value)value.textContent=t.value;}const output=document.querySelector(`#${t.name}-output`);if(output)output.textContent=t.name==='opacity'?`${100-state.appearance.opacity}%`:`${state.appearance.blur}px`;}
 });
 app.addEventListener('change',async e=>{
  const t=e.target;

diff --git a/docs/CODEX_HANDOFF.md b/docs/CODEX_HANDOFF.md
@@ -20,8 +20,8 @@
 
 - 清透、半透明、克制的 iOS 液态玻璃风格。用网页材质模拟，不是系统原生 Liquid Glass。
 - 用户觉得花哨的装饰太多，希望柔和、留白、统一的图标。当前使用 Lucide SVG，无需为了 React Icons 换掉框架。
-- 配色走主题变量，支持夜间模式：炭灰表面、柔白文字，全屏壁纸 brightness(.56) 与暗色遮层；聊天、抽屉、菜单、底栏和主页遵循同一深色材质。主题色文字在白天压深以保留可读性；其余正文与辅助文字也轻微随主题色变化。预设色按用户示例替换为天蓝 `#8dc3f0`（第一位）、樱粉 `#f2a7be`、蜜桃 `#f7b99a`、柠檬 `#f4d66e`、抹茶 `#b3d79b`、薄荷 `#8ed6c0`、香芋 `#b7a2e2`；不强制覆盖已有主题选择。壁纸、用户头像、AI 头像可替换；不要写死个人图片或主题色。
-- 英文及纪念日数字使用 Cormorant Garamond，纪念日字重 500（对应 Tidal Echo 的主页）；中文已按用户要求恢复系统无衬线字体（苹方/微软雅黑等）。英文字体在 `assets/fonts/` 本地托管；思源宋体旧资源暂保留但不再加载，许可随仓库保留；开屏仍使用已选定的 Distant Stroke。
+- 配色走主题变量，支持夜间模式：炭灰表面、柔白文字，全屏壁纸 brightness(.56) 与暗色遮层；聊天、抽屉、菜单、底栏和主页遵循同一深色材质。纪念日数字/日期/气泡文字和日历时间/日期/星期直接使用主题预设原色（昼夜均不混色）；其余正文与辅助文字也轻微随主题色变化。预设色按用户示例替换为天蓝 `#8dc3f0`（第一位）、樱粉 `#f2a7be`、蜜桃 `#f7b99a`、柠檬 `#f4d66e`、抹茶 `#b3d79b`、薄荷 `#8ed6c0`、香芋 `#b7a2e2`；不强制覆盖已有主题选择。壁纸、用户头像、AI 头像可替换；不要写死个人图片或主题色。
+- Cormorant Garamond 仅用于大号展示文字（约 20px 以上），如纪念日数字、日历时间、欢迎语和用量大数字；纪念日字重 500（对应 Tidal Echo 的主页）。小标签、小数值、日期、AI 头像标签与中文使用系统无衬线字体（苹方/微软雅黑等），数字使用等宽齐线形式。英文字体在 `assets/fonts/` 本地托管；思源宋体旧资源暂保留但不再加载，许可随仓库保留；开屏仍使用已选定的 Distant Stroke。
 - 动画轻而自然：按压反馈、页面切换、弹窗/抽屉、侧边栏、选中和组件换位。遵循 `prefers-reduced-motion`，不要一直摇晃或增加长等待。
 - 预览图应来自实际代码界面；参考图只是方向，不代表已实现。不要把用户提供的截图、立绘或头像擅自放入公共仓库。
 
@@ -31,7 +31,7 @@
 
 - 默认打开主页；主导航只有「主页、对话、记忆、设置」，底栏仅显示图标，保留无障碍名称；背景为高透明玻璃、细亮边与模糊效果。对话页与完整会话列表隐藏底栏。
 - 主页顶部原来的品牌/「我们的主页」标题区域已删除。
-- 纪念日透明无边框，占 4×2：左侧开始日期（14px，位于数字上方）、放大的衬线数字及数字右下侧 days；右侧两个独立圆头像并排，各自上方为带向下尖角的中性高透玻璃气泡；气泡背景只随昼夜切换，数字、气泡文字、日期和头像占位文字随主题色变化。头像素材沿用用户自己的图片。原标题与下方说明不再展示或提供编辑，旧数据仍保留在存储及备份中。
+- 纪念日透明无边框，占 4×2：左侧开始日期（14px，位于数字上方）、放大的衬线数字及数字右下侧 days；右侧两个独立圆头像并排，各自上方为连续圆滑短尾巴的中性高透玻璃气泡（SVG 主体和尾巴为一个路径，非单独三角形）；气泡背景只随昼夜切换，数字、气泡文字、日期和头像占位文字随主题色变化。头像素材沿用用户自己的图片。原标题与下方说明不再展示或提供编辑，旧数据仍保留在存储及备份中。
 - 纪念日默认开始日期为 2026-07-12；旧数据的 2026-10-07 一次性迁移为该日期，其他已有日期保留，迁移后仍可自由编辑。日期上移至数字上方，保留与数字之间的留白。
 - 日历遵循用户提供的玻璃卡片示例：实时 24 小时时间、星期/日期标签、分隔线、前一周/本周/后一周共 21 天，突出今天，字号在原示例基础上略微放大；跨日刷新，跨月/跨年正确排列，保留星期显示设置与组件名。
 - 主页每页保留 4 列 × 6 行；每格高度由容器宽度计算，宽高相等，不再按屏幕高度拉伸。纪念日占 4×2，今天、便签、心情、记忆收藏各占 2×2 且严格为 1:1。多余屏幕高度留作桌面留白，短屏编辑模式允许纵向滚动，不压扁组件。按组件顺序寻找空位排列，不重写原分页数据。
@@ -61,7 +61,7 @@
 
 - 记忆可手动添加、搜索、修改、删除，从聊天收藏；短期为 1/7/30 天，永久记忆不设期限。
 - 到期记忆保留在已到期分类，不静默删除。
-- 设置包含外观、角色、API/模型配置、MCP/插件配置、数据储存和用量；JSON 完整备份导入/导出。
+- 设置包含外观、角色、API/模型配置、MCP/插件配置、数据储存和用量；JSON 完整备份导入/导出。分组卡片为高透玻璃（使用外观不透明度的 28%），保留壁纸。滑块填充使用主题色、未填充为淡主题色染色，支持键盘；自定义颜色以圆形色块和色值标签呈现，仍使用原生取色器。
 
 ## 功能边界：务必区分 UI 和真实服务
 

diff --git a/docs/verification.md b/docs/verification.md
@@ -67,3 +67,11 @@
 - 开始日期移至纪念日数字上方并从 11px 调为 14px；日历日期从 11→12px、小屏从 10→11px，时间/星期标签略微放大，内部留白适配方形卡片。
 - Chromium 验证 320×640 / 390×844 / 430×932 / 700×900 / 844×390：普通组件宽高差 <1px、日期在数字上方、无横向溢出，正常/编辑/夜间模式纪念日与日历内容均在组件范围内。短屏编辑可滚动。
 - 20 项测试及语法检查通过；实际触摸复查长按进入编辑、新增分页、跨页拖拽、滑动翻页和导航，无 JavaScript 错误。
+
+## 原色主题、圆滑气泡与设置控件
+
+- 320 / 390px 浏览器验证七种预设在白天和夜间：纪念日数字、日期、days、气泡文字、日历时间/星期的实际 RGB 均等于预设原色，没有混色。
+- 气泡为 SVG 连续轮廓与短圆滑尾巴，移除三角形伪元素；玻璃背景仍为中性色，夜间切换深色。
+- 设置分组背景不透明度约 17%（默认 60%×28%）；昼夜实际预览已更新。滑块键盘右键可调整数值、填充同步变化；自定义取色更新圆形色块和色值，刷新恢复通过。
+- 小数值/标签为系统无衬线字体，Cormorant 仅用于大号展示文字；AI 头像标签和 40% / 22px 等数值清晰。夜间星期字母使用预设原色、无透明度衰减。
+- 20 项测试与语法检查通过；五种屏幕尺寸的正方形组件/日历包含检查、真实触摸长按/拖拽/分页检查均通过，无 JavaScript 运行错误。
